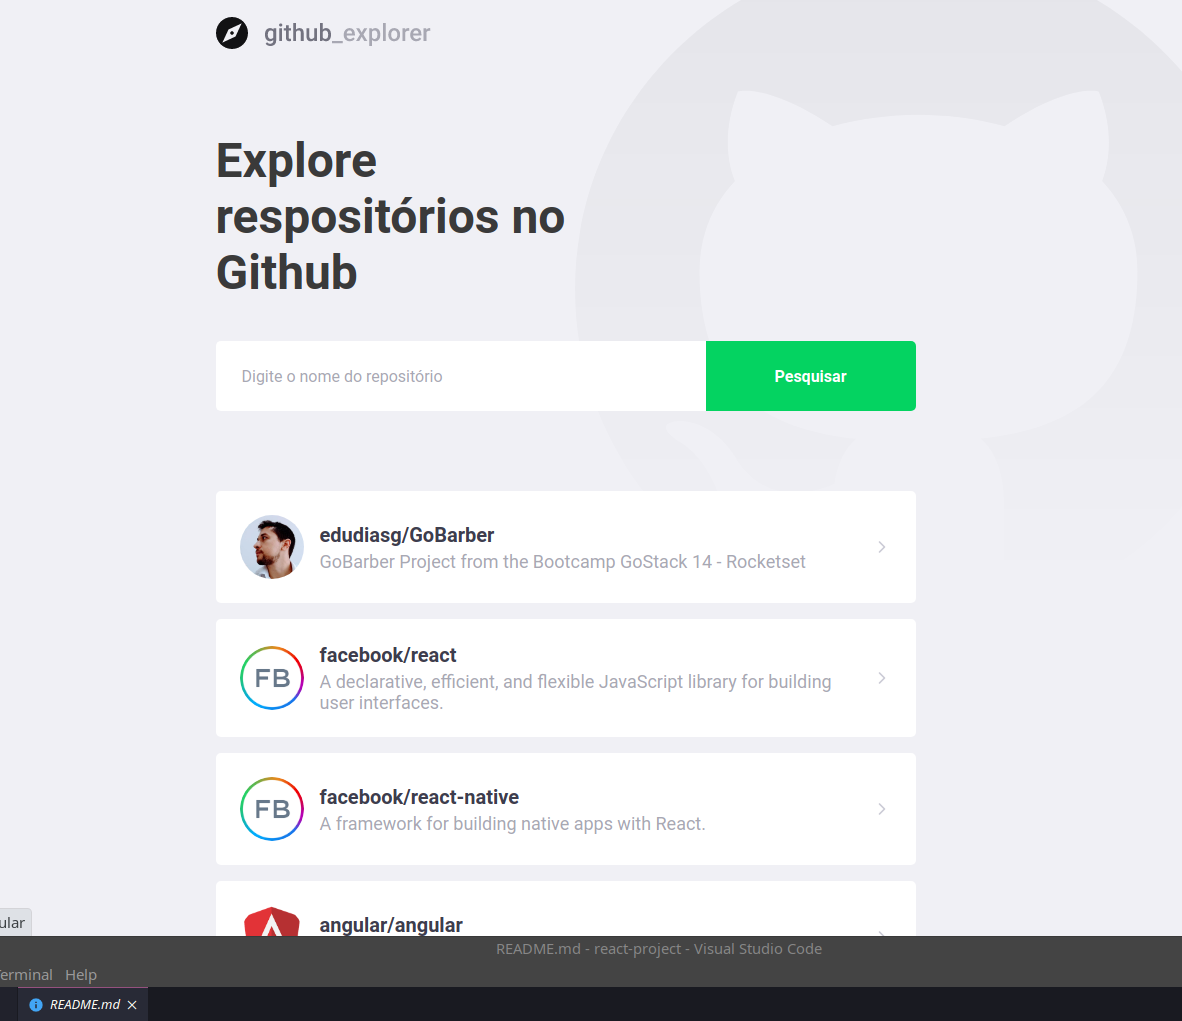
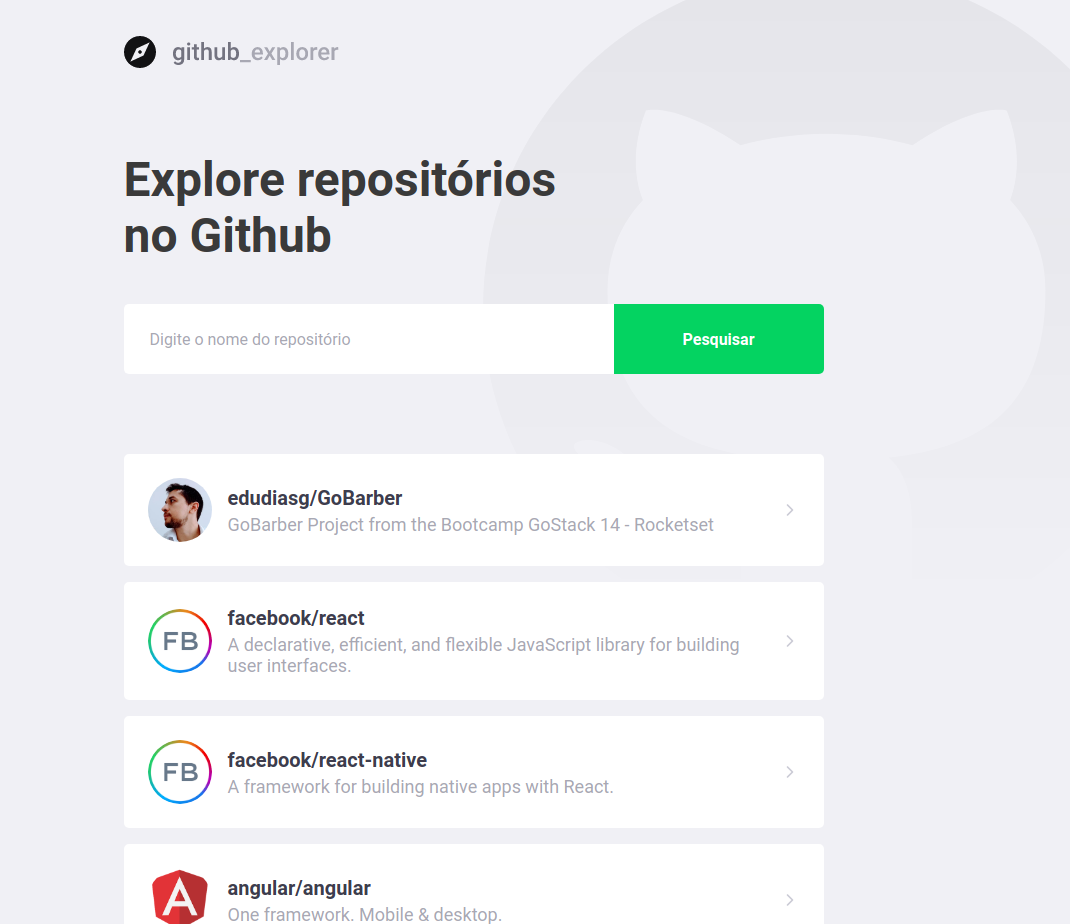
chore(doc): better screenshot

diff --git a/src/pages/Dashboard/index.tsx b/src/pages/Dashboard/index.tsx
@@ -56,7 +56,7 @@ const Dashboard: React.FC = () => {
 
     <>
       <img src={githublogo} alt="Github Explorer" />
-      <Title>Explore respositórios no Github</Title>
+      <Title>Explore repositórios no Github</Title>
 
       <Form hasError={!!inputError} onSubmit={handleAddRespository}>
         <input value={newRepo} onChange={(e) => setNewRepo(e.target.value)} placeholder="Digite o nome do repositório" />
